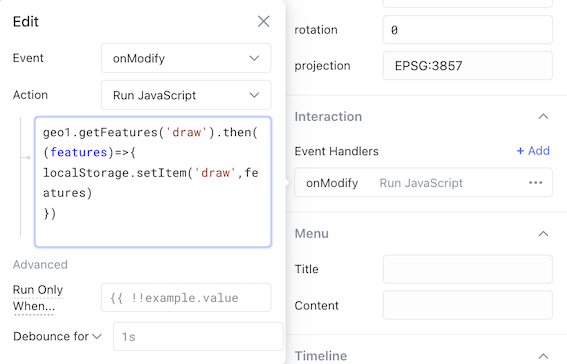
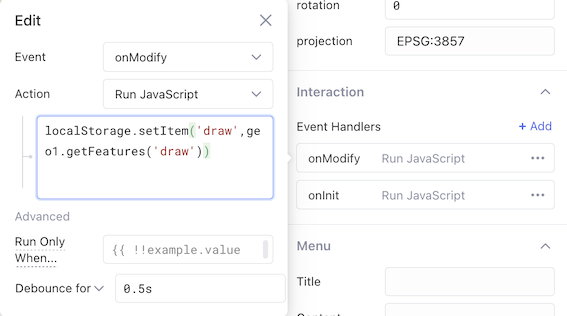
fix: added await

diff --git a/src/vendors/helpers/Layers.js b/src/vendors/helpers/Layers.js
@@ -351,7 +351,7 @@ export async function getFeatures(map, name) {
   if (layer) {
     const source = layer.getSource()
     //Check if there is a undo stack connected to this source, if so clear and disable
-    return await new GeoJSON({
+    return new GeoJSON({
       dataProjection: source.get('projection') || 'EPSG:4326',
       featureProjection: map.getView().getProjection() || 'EPSG:3857'
     }).writeFeaturesObject(source.getFeatures())

diff --git a/src/GEOComp.tsx b/src/GEOComp.tsx
@@ -514,7 +514,7 @@ GEOComp = withMethodExposing(GEOComp, [
     },
     execute: async (comp: any, params: any) => {
       var map = comp.exposingValues.events['map:init']
-      if (map) return getFeatures(map, params[0])
+      if (map) return await getFeatures(map, params[0])
       return null
     }
   },

diff --git a/docs/tutorial.md b/docs/tutorial.md
@@ -17,14 +17,13 @@ Now scroll down to behavior section of the properties and toggle the following i
 
 <br clear="right"/>
 
-## Step 2 - Connect onSave event
+## Step 2 - Connect onModify event
 <img align="right" src="images/tutorial-step2.png" >
 
-Add an new interaction by clicking `+Add` on the right side of Event Handlers. Select the `onModify` event and for Action `Run Javascript`. Copy the javascript below into the script field.
+Add an new interaction by clicking `+Add` on the right side of Event Handlers. Select the `onModify` event and for Action `Run Javascript`. Copy the javascript below into the script field. Set the bounce to 0.5s to reduce the number of modify events
 
 ```js
-geo1.getFeatures('draw').then((features)=>{
-localStorage.setItem('draw',features) 
+localStorage.setItem('draw',geo1.getFeatures('draw'))
 })
 ```
 <br clear="right"/>
